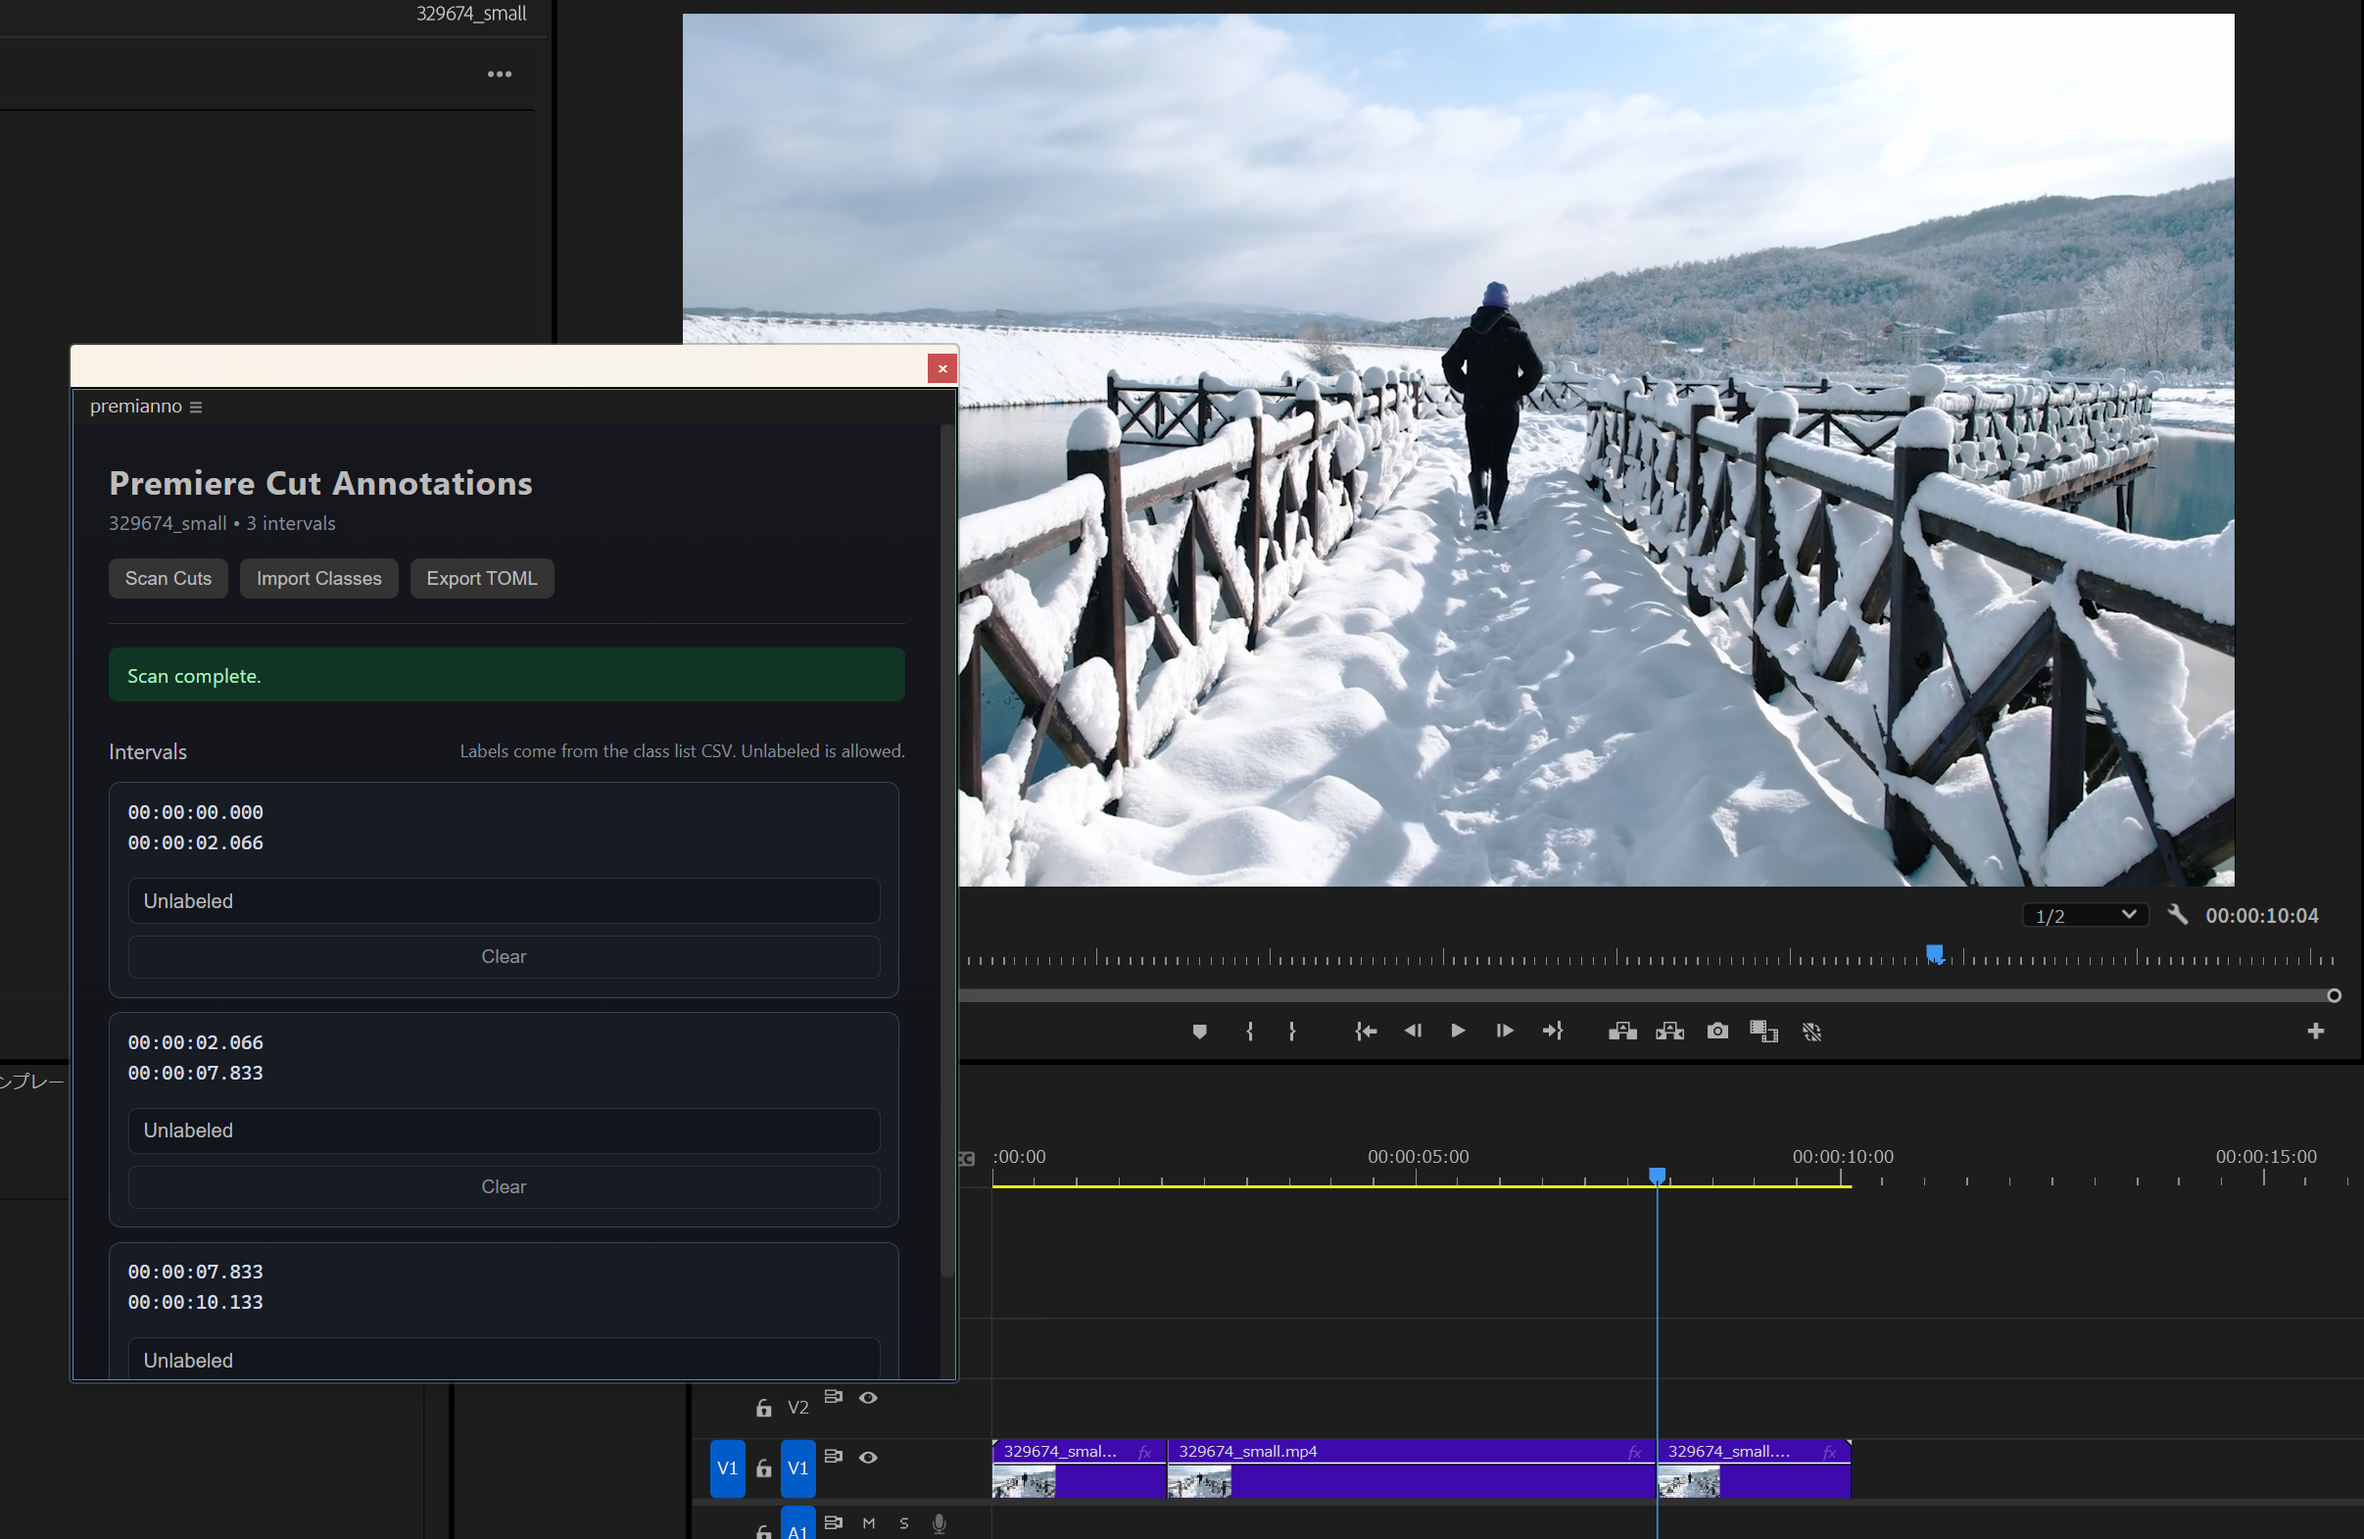
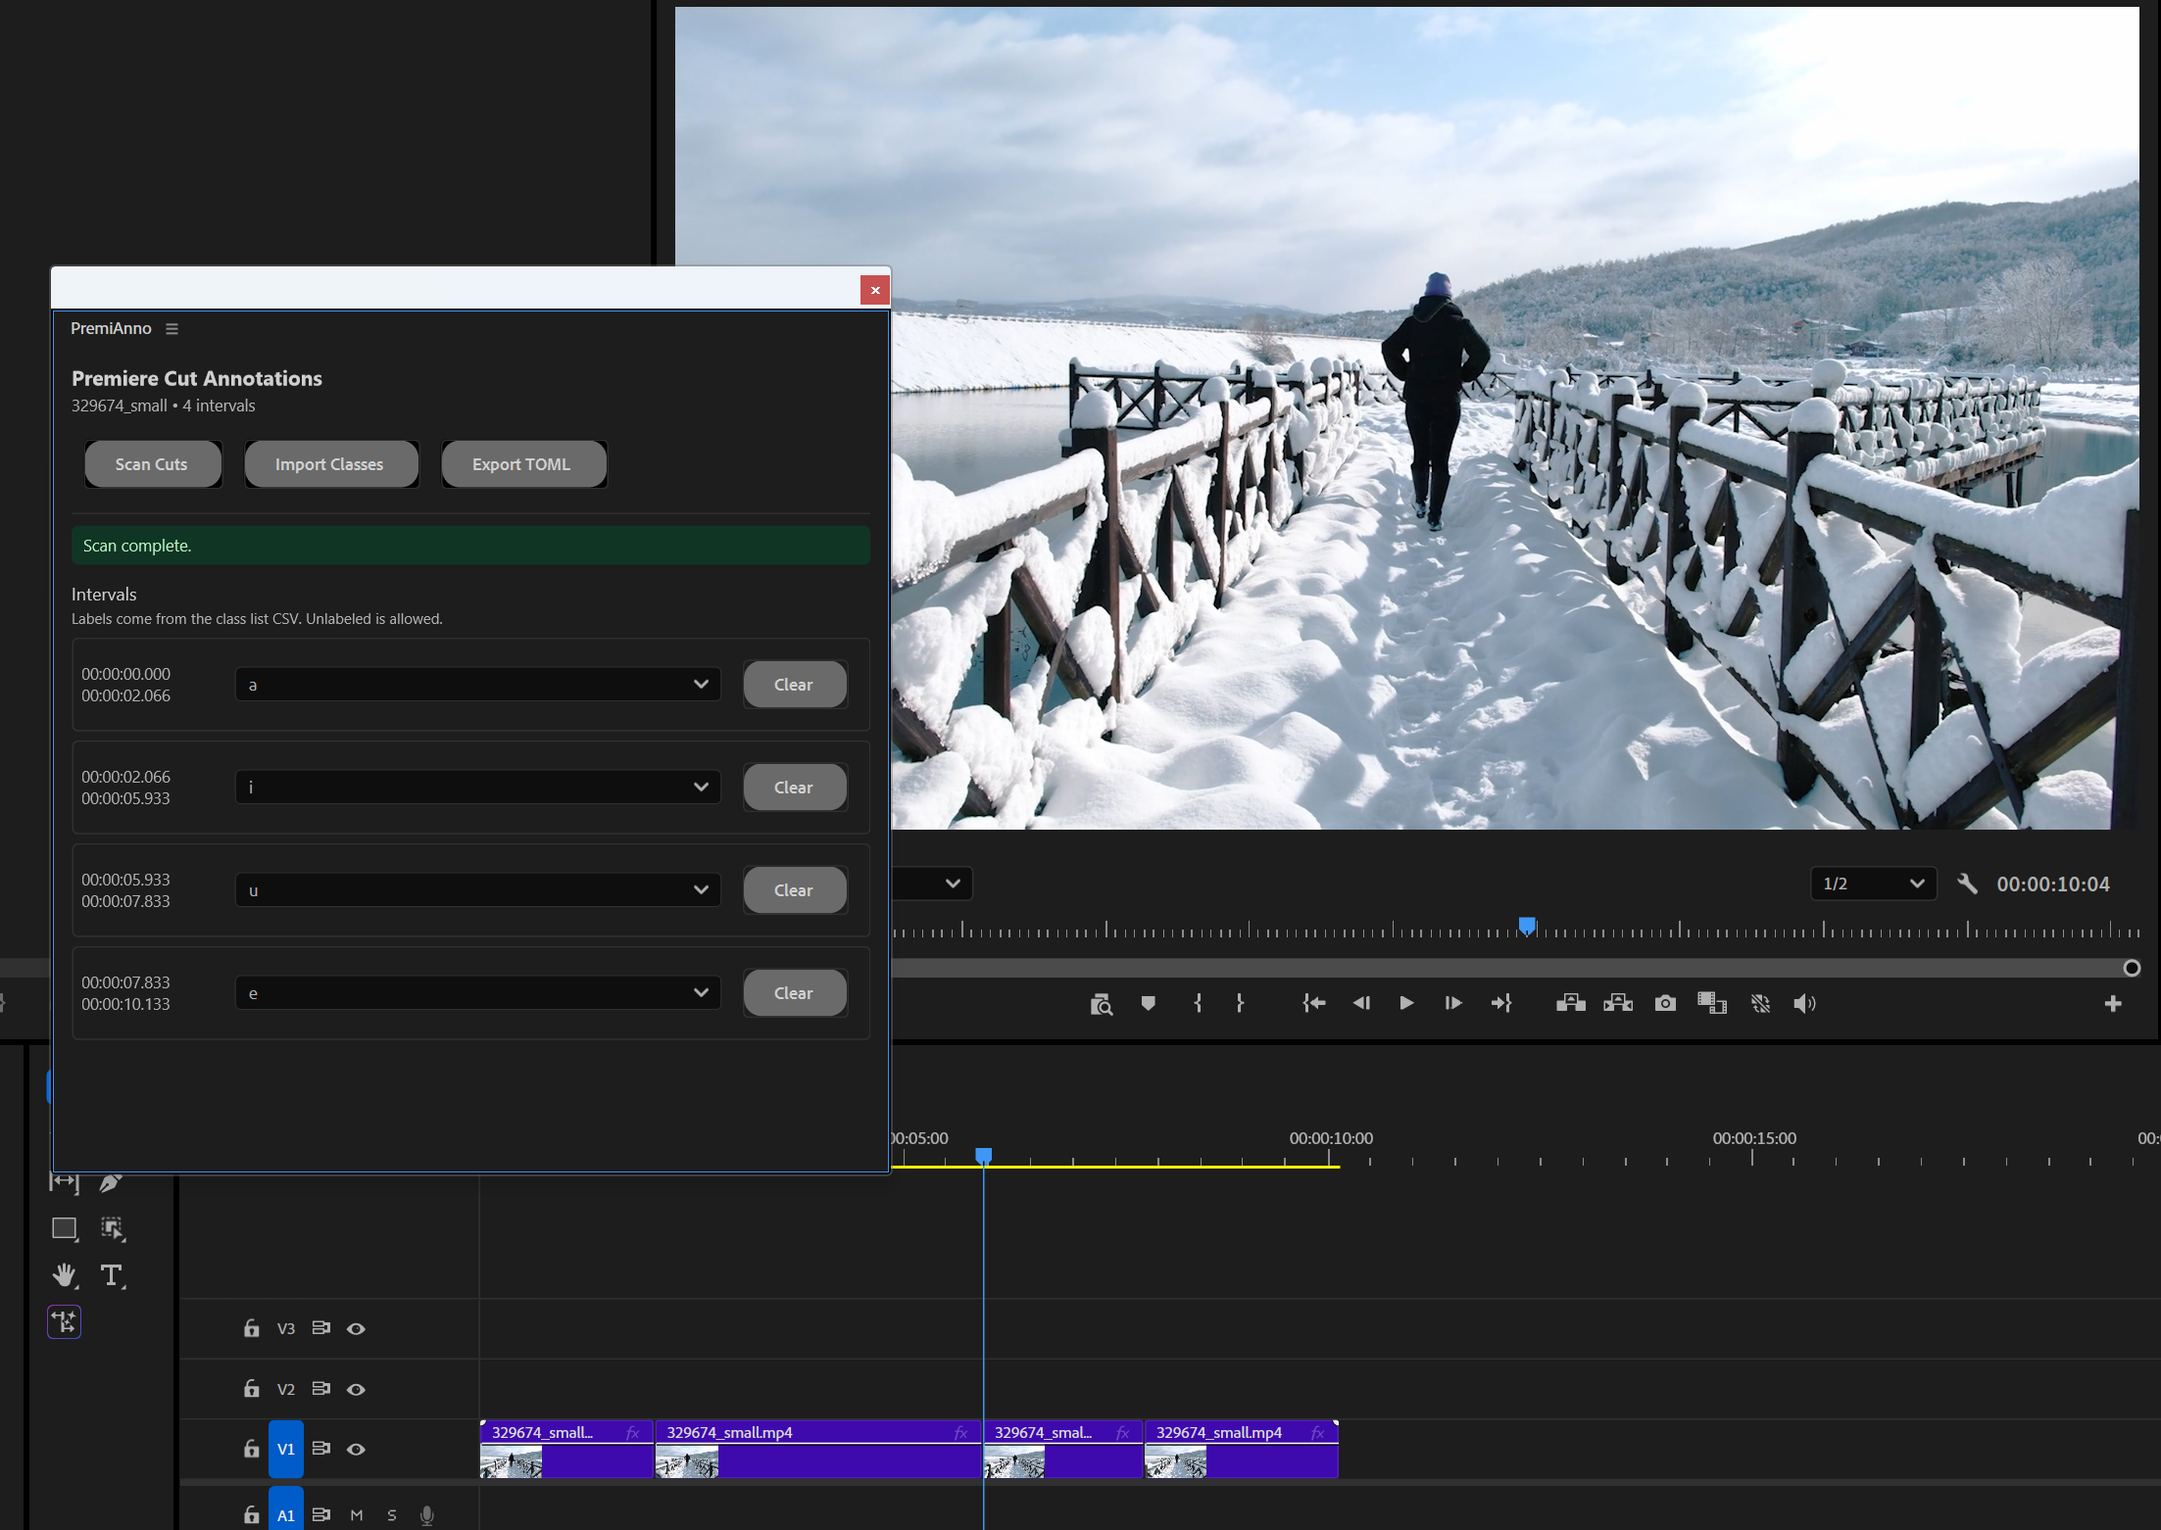
fix(docs): update overview image

diff --git a/README.md b/README.md
@@ -9,7 +9,7 @@ It is designed for AI research projects and media analysis workflows, allowing r
 
 By integrating annotation into Premiere Pro, PremiAnno bridges the gap between creative editing and data collection for machine learning, video understanding, and multimodal AI research.
 
-![PremiAnnoのUI](packages/docs/images/overview.png)
+![PremiAnno UI](packages/docs/images/overview.png)
 
 ## Features
 
